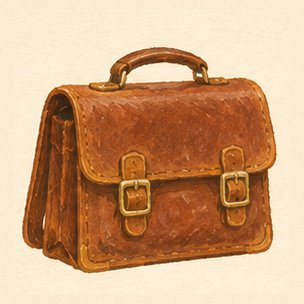
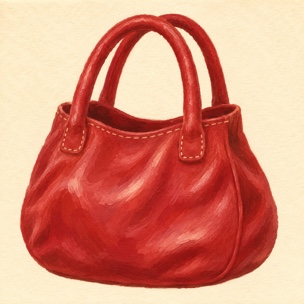
Добавить правила в меню и перерисовать сумку

diff --git a/index.html b/index.html
@@ -16,6 +16,14 @@
 <fieldset><legend>Выбери звук</legend><div class="choices" id="sounds"><button data-value="s" aria-pressed="true">Звук С</button><button data-value="sh" aria-pressed="false">Звук Ш</button></div></fieldset>
 <fieldset><legend>Жизни</legend><div class="choices" id="counts"><button aria-label="3 жизни" data-value="3" aria-pressed="false">3</button><button aria-label="4 жизни" data-value="4" aria-pressed="false">4</button><button aria-label="5 жизней" data-value="5" aria-pressed="true">5</button></div></fieldset>
 <button class="primary" id="play">Играть</button>
+<button class="secondary" id="rulesButton" aria-haspopup="dialog">Правила</button>
+<dialog id="rules" aria-labelledby="rulesTitle">
+<h2 id="rulesTitle">Правила</h2>
+<p>Назови картинку на табличке. Слышишь выбранный звук? Нажми на картинку, чтобы бросить снежок.</p>
+<p>Картинки можно пропускать. За ошибку теряется одно сердечко.</p>
+<p>Попади в 15 нужных картинок, чтобы победить!</p>
+<form method="dialog"><button class="primary" autofocus>Понятно</button></form>
+</dialog>
 </section>
 <div id="hud" hidden><div class="stat">Попадания <strong id="score">0/15</strong></div><div id="prompt" hidden></div><div class="stat" id="lives"></div></div>
 <div id="boards" hidden></div>

diff --git a/style.css b/style.css
@@ -39,3 +39,7 @@ h1{margin-bottom:clamp(14px,3.5vmin,32px)}
 
 @media(max-width:460px){.stat,#prompt{padding:7px 8px;font-size:14px}.heart{width:16px}.stat#lives{gap:1px}}
 #field[data-screen=play] .front-wall{pointer-events:auto}
+
+#rules{width:min(390px,calc(100% - 32px));max-height:90svh;overflow:auto;color:inherit;border:1px solid #cbb994;border-radius:12px;background:#fff8e9;padding:clamp(18px,4vmin,32px);box-shadow:0 12px 40px #29413f44}
+#rules h2{font-size:clamp(32px,6vmin,48px)}
+#rules::backdrop{background:#233d4280}

diff --git a/game.js b/game.js
@@ -208,6 +208,7 @@ function finish(won){
   el("again").textContent=won?"Играть ещё":"Попробовать снова";el("again").focus();
   if(won){burst(point(el("field"),.64,.53),true);}
 }
+el("rulesButton").onclick=()=>el("rules").showModal();
 el("play").onclick=start;el("again").onclick=start;
 el("back").onclick=()=>{setScreen("menu");el("boy").src="assets/boy.png";el("play").focus();};
 for(let i=0;i<40;i++){
